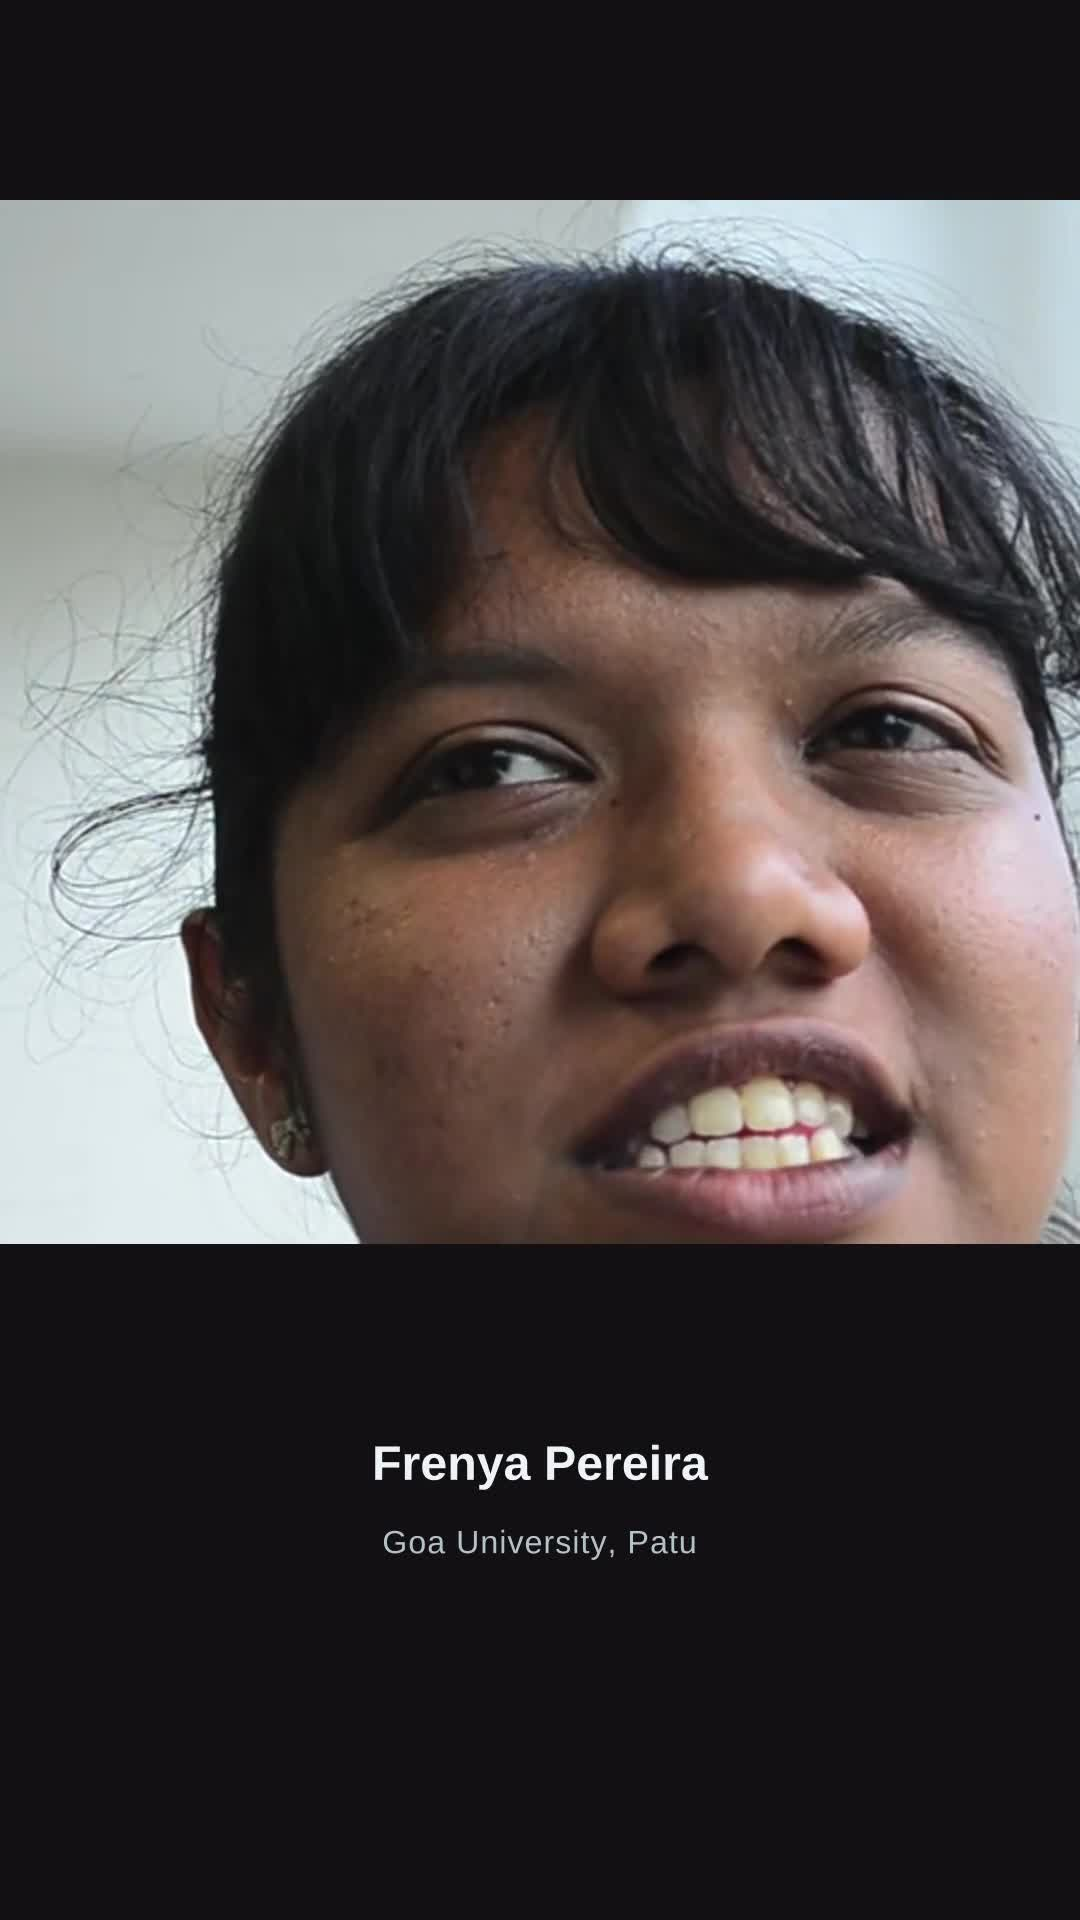
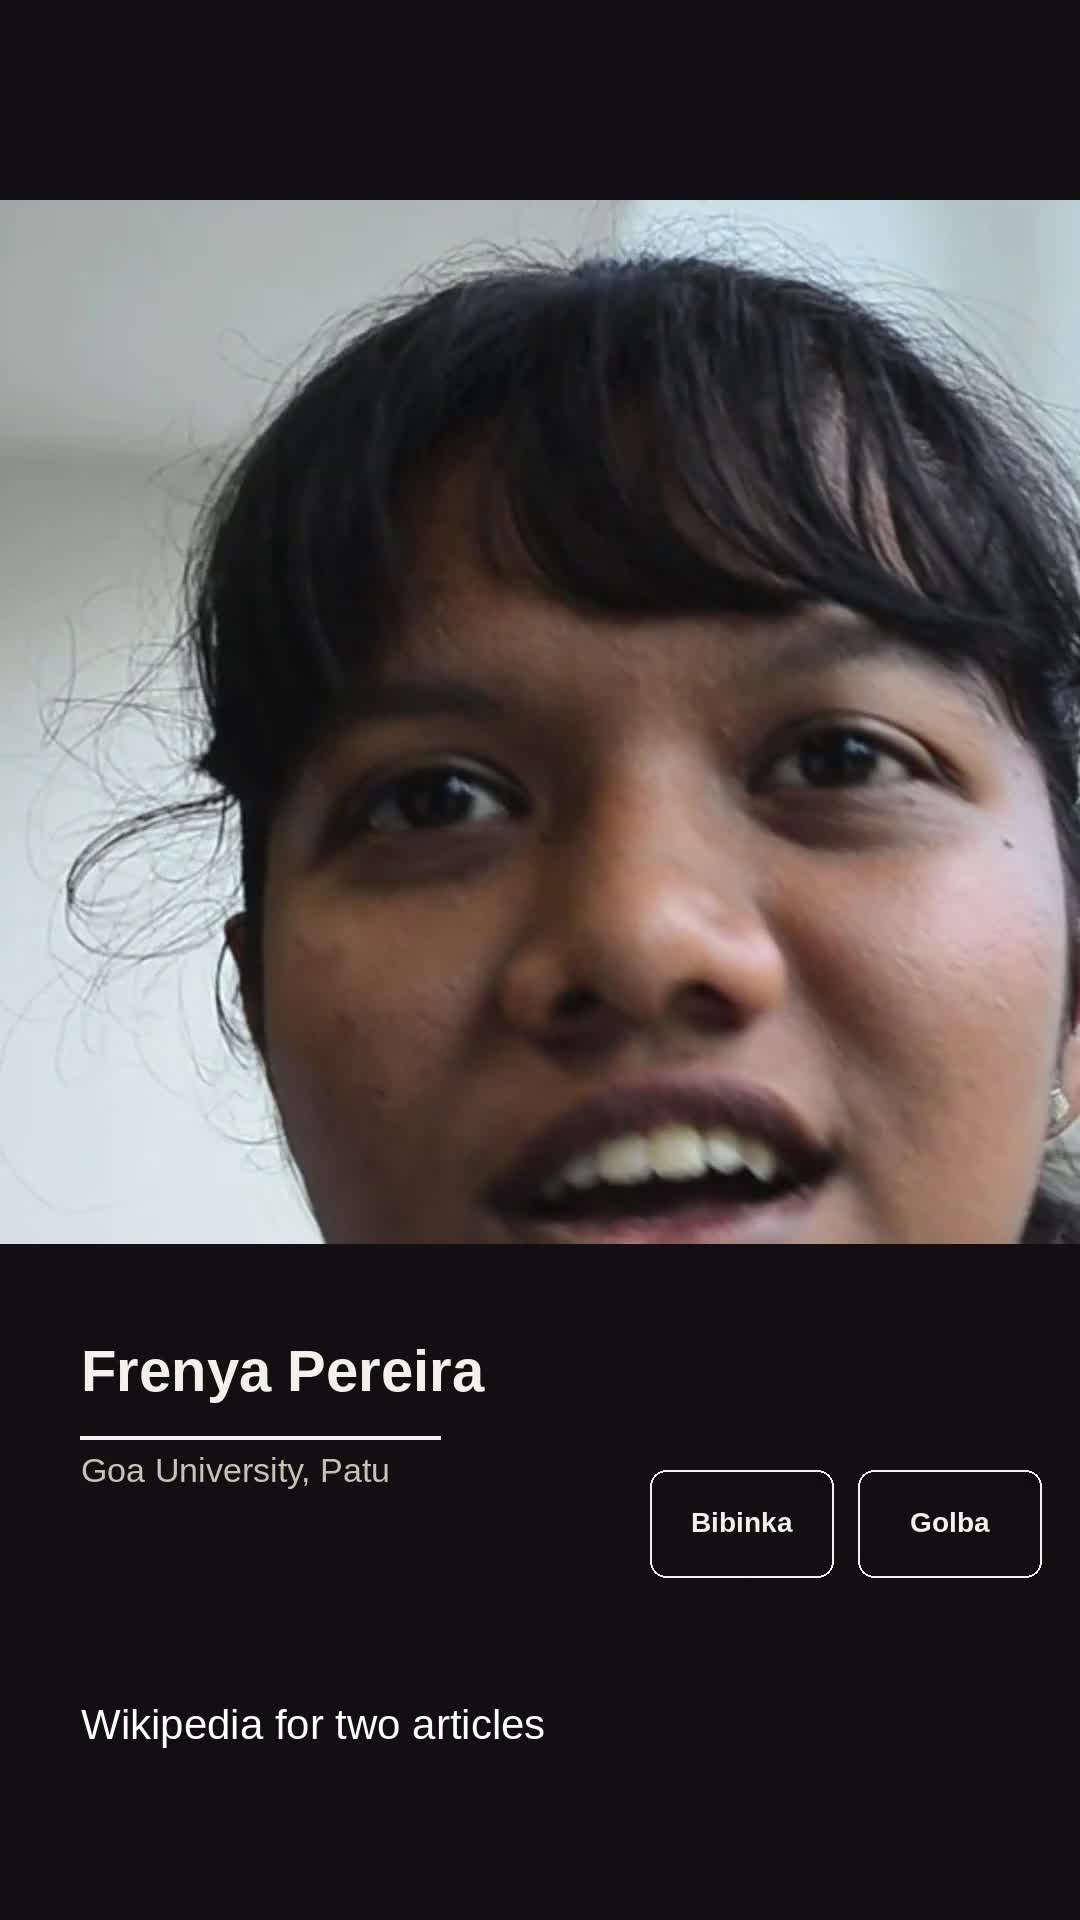
Paint the talking-head wrap frame by frame from the spoken words.
The cropped interview is the still underneath. Name, place, the current line, and two article cards draw into the band under the face as she says them.

diff --git a/scripts/wrap_frames.py b/scripts/wrap_frames.py
@@ -1,0 +1,224 @@
+#!/usr/bin/env python3
+"""Draw the talking-head wrap on top of extracted frames.
+
+The cropped interview is split into one still per frame. Motion is painted
+into the black band under the face, timed to the words already recognized
+in output/talk-10s.json. Frames stay out of git; the finished film is
+output/talk-10s.mp4.
+"""
+
+import json
+import subprocess
+from pathlib import Path
+
+from PIL import Image, ImageDraw, ImageFont
+
+ROOT = Path(__file__).resolve().parents[1]
+OUT = ROOT / "output"
+CUT = OUT / "talk-10s-cut.mp4"
+META = OUT / "talk-10s.json"
+BASE = OUT / "frames" / "base"
+COMP = OUT / "frames" / "comp"
+FILM = OUT / "talk-10s.mp4"
+
+W, H = 1080, 1920
+FPS = 25
+INK = (244, 241, 234)
+MUTED = (201, 195, 182)
+WHITE = (255, 255, 255)
+
+FONT_BOLD = "/usr/share/fonts/truetype/liberation/LiberationSans-Bold.ttf"
+FONT_REG = "/usr/share/fonts/truetype/liberation/LiberationSans-Regular.ttf"
+
+
+def ease(t):
+    t = max(0.0, min(1.0, t))
+    return t * t * (3 - 2 * t)
+
+
+def word_start(words, token, nth=0):
+    seen = 0
+    key = token.lower()
+    for w in words:
+        if w["word"].lower().strip(",.") == key:
+            if seen == nth:
+                return w["start"]
+            seen += 1
+    raise SystemExit(f"missing word: {token}")
+
+
+def reveal(text, t, start, dur):
+    if t < start or not text:
+        return ""
+    n = int(round(ease((t - start) / dur) * len(text)))
+    return text[:n]
+
+
+def text_sprite(text, font, fill, alpha=255):
+    box = font.getbbox(text)
+    w = max(1, box[2] - box[0] + 2)
+    h = max(1, box[3] - box[1] + 2)
+    im = Image.new("RGBA", (w, h), (0, 0, 0, 0))
+    ImageDraw.Draw(im).text((-box[0] + 1, -box[1] + 1), text, font=font, fill=(*fill, alpha))
+    return im
+
+
+def blit(base, sprite, x, y):
+    if sprite is None:
+        return
+    base.alpha_composite(sprite, (int(x), int(y)))
+
+
+def growing_line(base, x, y, full, t, start, dur, alpha=255):
+    width = int(full * ease((t - start) / dur)) if t >= start else 0
+    if width < 2 or alpha <= 0:
+        return
+    layer = Image.new("RGBA", base.size, (0, 0, 0, 0))
+    ImageDraw.Draw(layer).rectangle((x, y, x + width, y + 3), fill=(*INK, alpha))
+    base.alpha_composite(layer)
+
+
+def card_sprite(label, font):
+    w, h = 188, 112
+    im = Image.new("RGBA", (w, h), (0, 0, 0, 0))
+    d = ImageDraw.Draw(im)
+    d.rounded_rectangle((2, 2, w - 3, h - 3), radius=16, outline=(*INK, 255), width=2)
+    if label:
+        sp = text_sprite(label, font, INK)
+        im.alpha_composite(sp, ((w - sp.width) // 2, (h - sp.height) // 2 - 2))
+    return im
+
+
+def paste_pop(base, sprite, cx, cy, t, start, dur=0.28):
+    if t < start:
+        return
+    p = ease((t - start) / dur)
+    scale = 0.72 + 0.28 * p
+    alpha = int(255 * min(1.0, p * 1.4))
+    nw = max(1, int(sprite.width * scale))
+    nh = max(1, int(sprite.height * scale))
+    resized = sprite.resize((nw, nh), Image.Resampling.LANCZOS)
+    if alpha < 255:
+        band = resized.getchannel("A").point(lambda a: a * alpha // 255)
+        resized.putalpha(band)
+    lift = int((1 - p) * 18)
+    base.alpha_composite(resized, (int(cx - nw / 2), int(cy - nh / 2 + lift)))
+
+
+def phrase(words, t, alpha):
+    """Words spoken so far, the newest one still sliding into place."""
+    shown = [w for w in words if t >= w[0]]
+    if not shown or alpha <= 0:
+        return None, 0
+    parts = []
+    slide = 0
+    for i, (start, text) in enumerate(shown):
+        if i == len(shown) - 1:
+            slide = int((1 - ease((t - start) / 0.18)) * 22)
+        parts.append(text)
+    return " ".join(parts), slide
+
+
+def build_cues(meta):
+    words = meta["words"]
+    place = meta["facts"]["place"]
+    school, _, town = place.partition(",")
+    return {
+        "name": meta["facts"]["name"],
+        "name_at": meta["facts"]["name_at"],
+        "school": school.strip(),
+        "school_at": word_start(words, "Goa"),
+        "town": town.strip(),
+        "town_at": word_start(words, "Patu"),
+        "line_a": [
+            (word_start(words, "and"), "And"),
+            (word_start(words, "I've"), "I've"),
+            (word_start(words, "been"), "been"),
+            (word_start(words, "contributing"), "contributing"),
+        ],
+        "line_b": [
+            (word_start(words, "Wikipedia"), "Wikipedia"),
+            (word_start(words, "for"), "for"),
+            (word_start(words, "two"), "two"),
+            (word_start(words, "articles"), "articles"),
+        ],
+        "cards_at": word_start(words, "two"),
+        "bibinka_at": word_start(words, "Bibinka"),
+        "golba_at": word_start(words, "Golba"),
+    }
+
+
+def paint(frame, t, cues, fonts):
+    name_f, place_f, cap_f, card_f = fonts
+    im = frame.convert("RGBA")
+
+    name = reveal(cues["name"], t, cues["name_at"], 0.72)
+    if name:
+        blit(im, text_sprite(name, name_f, INK), 80, 1348)
+
+    growing_line(im, 80, 1436, 360, t, cues["school_at"], 0.32)
+
+    school = reveal(cues["school"], t, cues["school_at"] + 0.08, 0.5)
+    town = reveal(", " + cues["town"], t, cues["town_at"], 0.32)
+    place = school + town
+    if place:
+        blit(im, text_sprite(place, place_f, MUTED), 80, 1456)
+
+    # The contributing line leaves as Wikipedia takes its place.
+    fade_out = ease((t - 6.05) / 0.22) if t >= 6.05 else 0
+    a_alpha = int(255 * (1 - fade_out))
+    text_a, slide_a = phrase(cues["line_a"], t, a_alpha)
+    if text_a:
+        blit(im, text_sprite(text_a, cap_f, WHITE, a_alpha), 80 + slide_a, 1708)
+
+    text_b, slide_b = phrase(cues["line_b"], t, 255 if t >= cues["line_b"][0][0] else 0)
+    if text_b:
+        blit(im, text_sprite(text_b, cap_f, WHITE), 80 + slide_b, 1708)
+
+    if t >= cues["cards_at"]:
+        b1 = reveal("Bibinka", t, cues["bibinka_at"], 0.36)
+        b2 = reveal("Golba", t, cues["golba_at"], 0.3)
+        paste_pop(im, card_sprite(b1, card_f), 742, 1524, t, cues["cards_at"])
+        paste_pop(im, card_sprite(b2, card_f), 950, 1524, t, cues["cards_at"])
+
+    return im.convert("RGB")
+
+
+def run(cmd):
+    subprocess.run(cmd, check=True)
+
+
+def main():
+    meta = json.loads(META.read_text(encoding="utf-8"))
+    cues = build_cues(meta)
+    fonts = (
+        ImageFont.truetype(FONT_BOLD, 58),
+        ImageFont.truetype(FONT_REG, 34),
+        ImageFont.truetype(FONT_REG, 42),
+        ImageFont.truetype(FONT_BOLD, 28),
+    )
+    BASE.mkdir(parents=True, exist_ok=True)
+    COMP.mkdir(parents=True, exist_ok=True)
+    run(["ffmpeg", "-y", "-loglevel", "error", "-i", str(CUT), str(BASE / "%04d.png")])
+
+    frames = sorted(BASE.glob("*.png"))
+    if len(frames) != 250:
+        raise SystemExit(f"expected 250 frames, got {len(frames)}")
+    for i, path in enumerate(frames):
+        t = i / FPS
+        paint(Image.open(path), t, cues, fonts).save(COMP / path.name)
+
+    run([
+        "ffmpeg", "-y", "-loglevel", "error",
+        "-framerate", str(FPS), "-i", str(COMP / "%04d.png"),
+        "-i", str(CUT),
+        "-map", "0:v:0", "-map", "1:a:0",
+        "-c:v", "libx264", "-pix_fmt", "yuv420p", "-crf", "18",
+        "-c:a", "copy", "-shortest", str(FILM),
+    ])
+    run(["ffmpeg", "-y", "-loglevel", "error", "-ss", "9.9", "-i", str(FILM), "-frames:v", "1", str(OUT / "talk-10s.jpg")])
+    print(f"wrote {FILM}")
+
+
+if __name__ == "__main__":
+    main()

diff --git a/README.md b/README.md
@@ -25,10 +25,11 @@
 
 ## 口播试片
 
-10 秒真人出镜。识别她说的话，包装只留两样东西：从句子里抽出的姓名和学校，以及后面没被这两行用掉的一句字幕。脸和嘴留在画面上，字放在下方空带里。
+10 秒真人出镜。口播先拆成一帧一张底图，再按她说出的词，在脸下面的黑带里画解说：名字写出来，学校和地名跟着出现，当前这句往外推，说到 two 时右侧冒出两张卡片，Bibinka 和 Golba 分别写入。
 
 ```bash
 python3 scripts/wrap_talk.py media/interview.webm --start 9.36 --duration 10
+python3 scripts/wrap_frames.py
 ```
 
 成片在 `output/talk-10s.mp4`，不纳入版本库。这一段用的是 Wikimedia Commons 上 Subhashish Panigrahi 拍摄的 Frania Pereira 访谈（CC BY-SA 3.0）。识别结果按模型听到的拼写保留。
